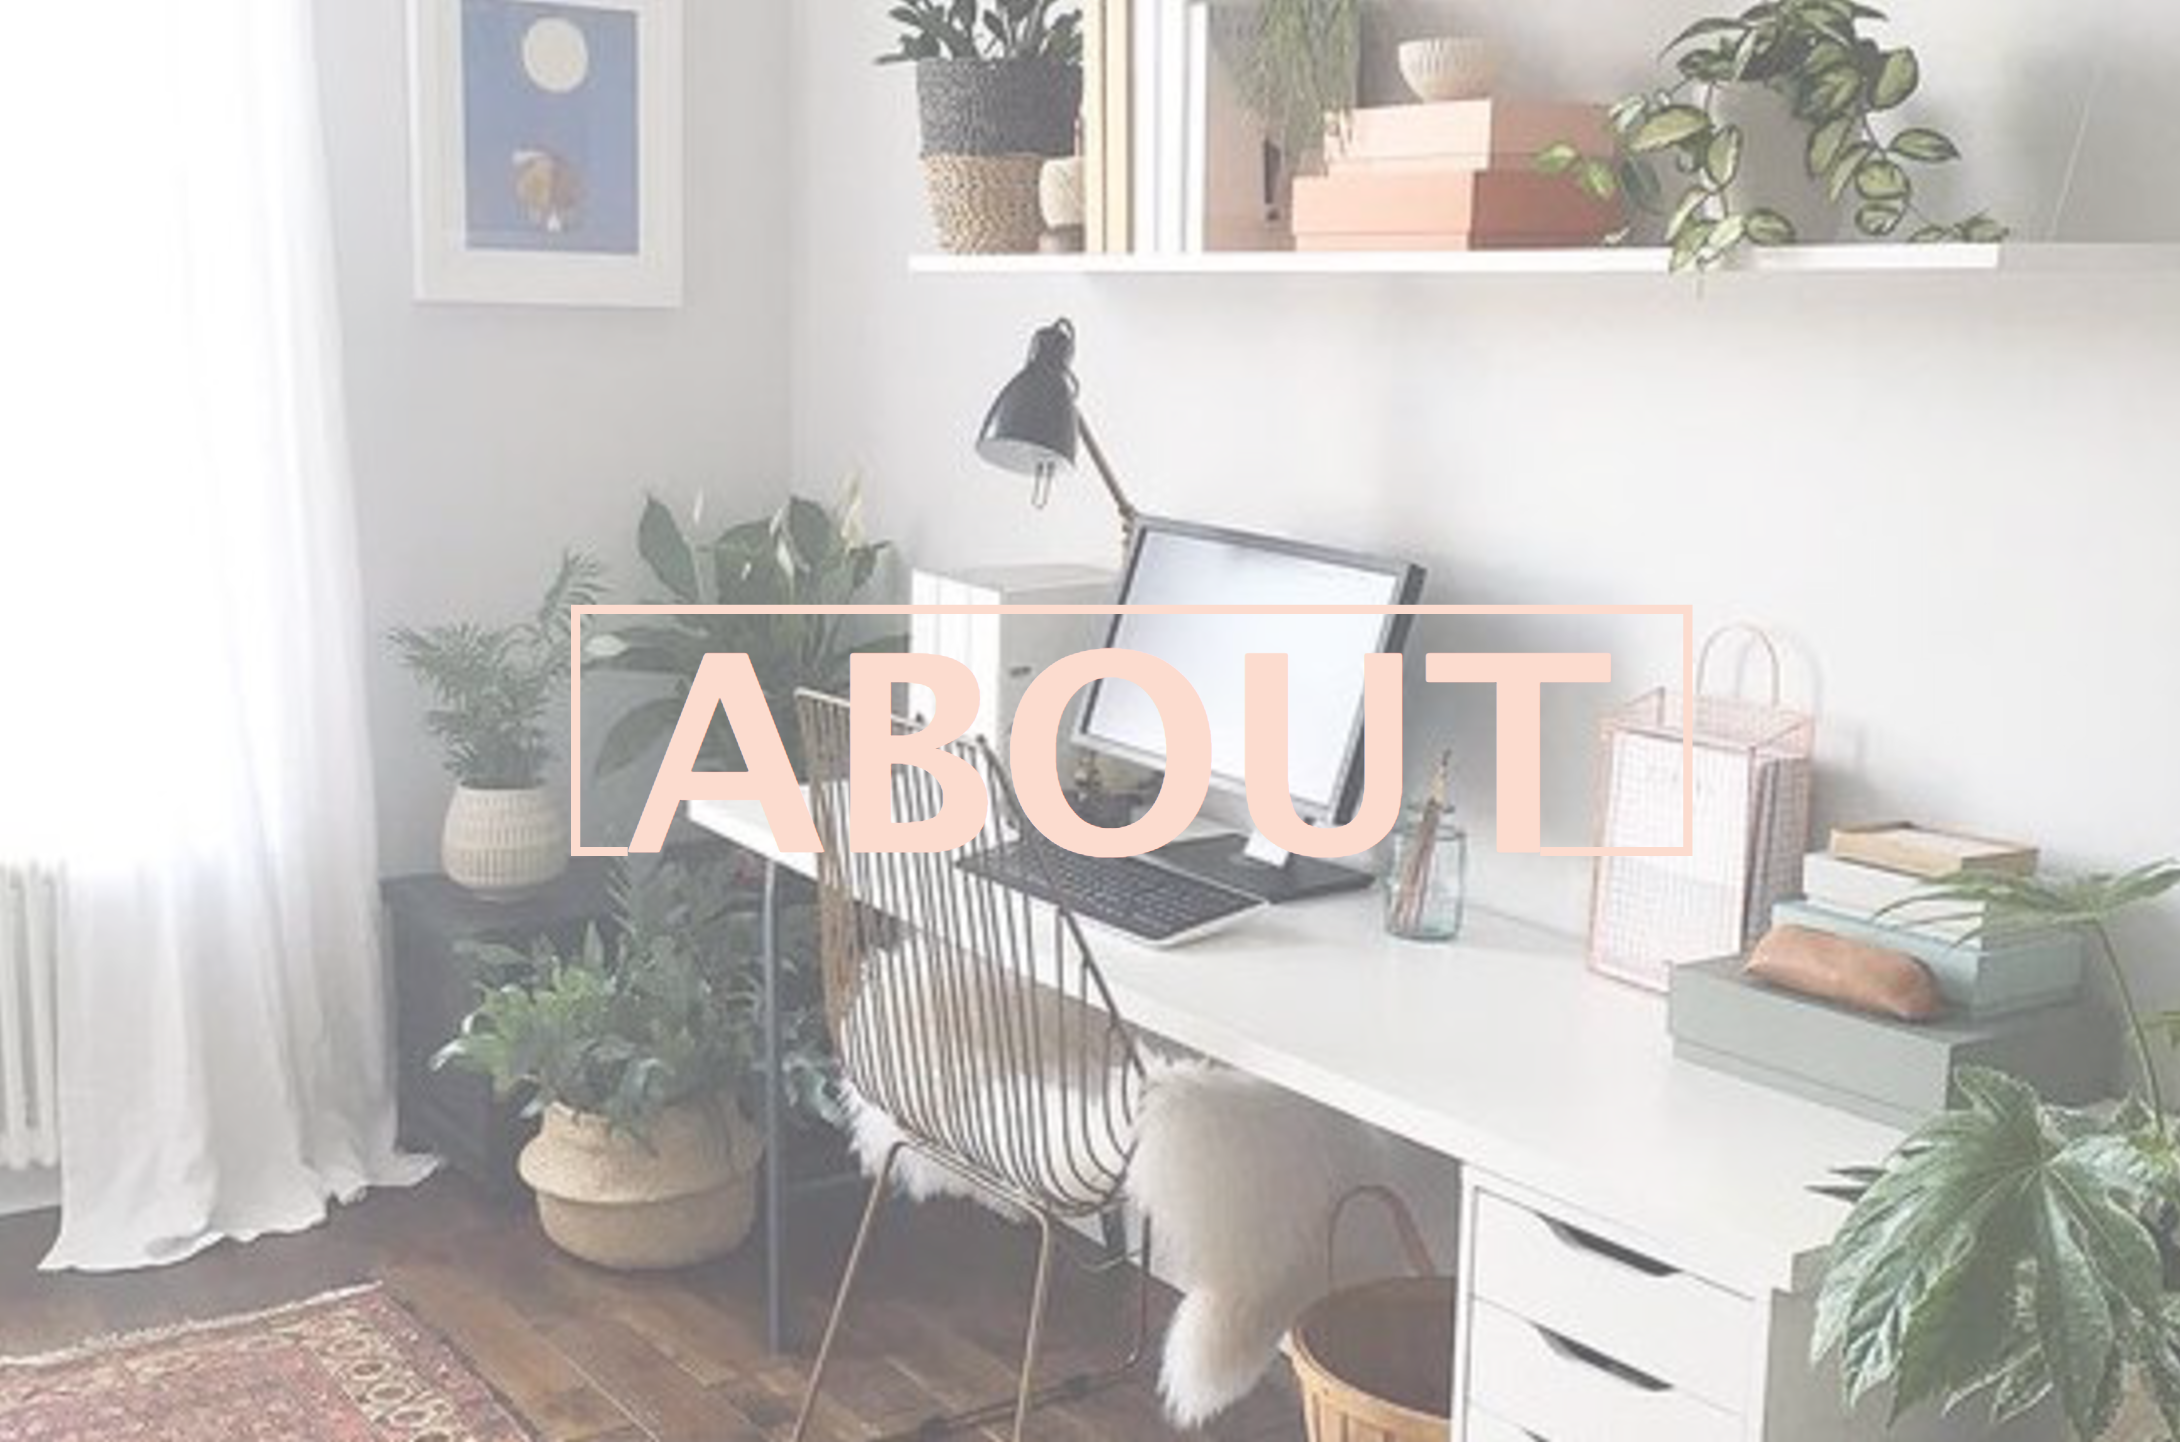
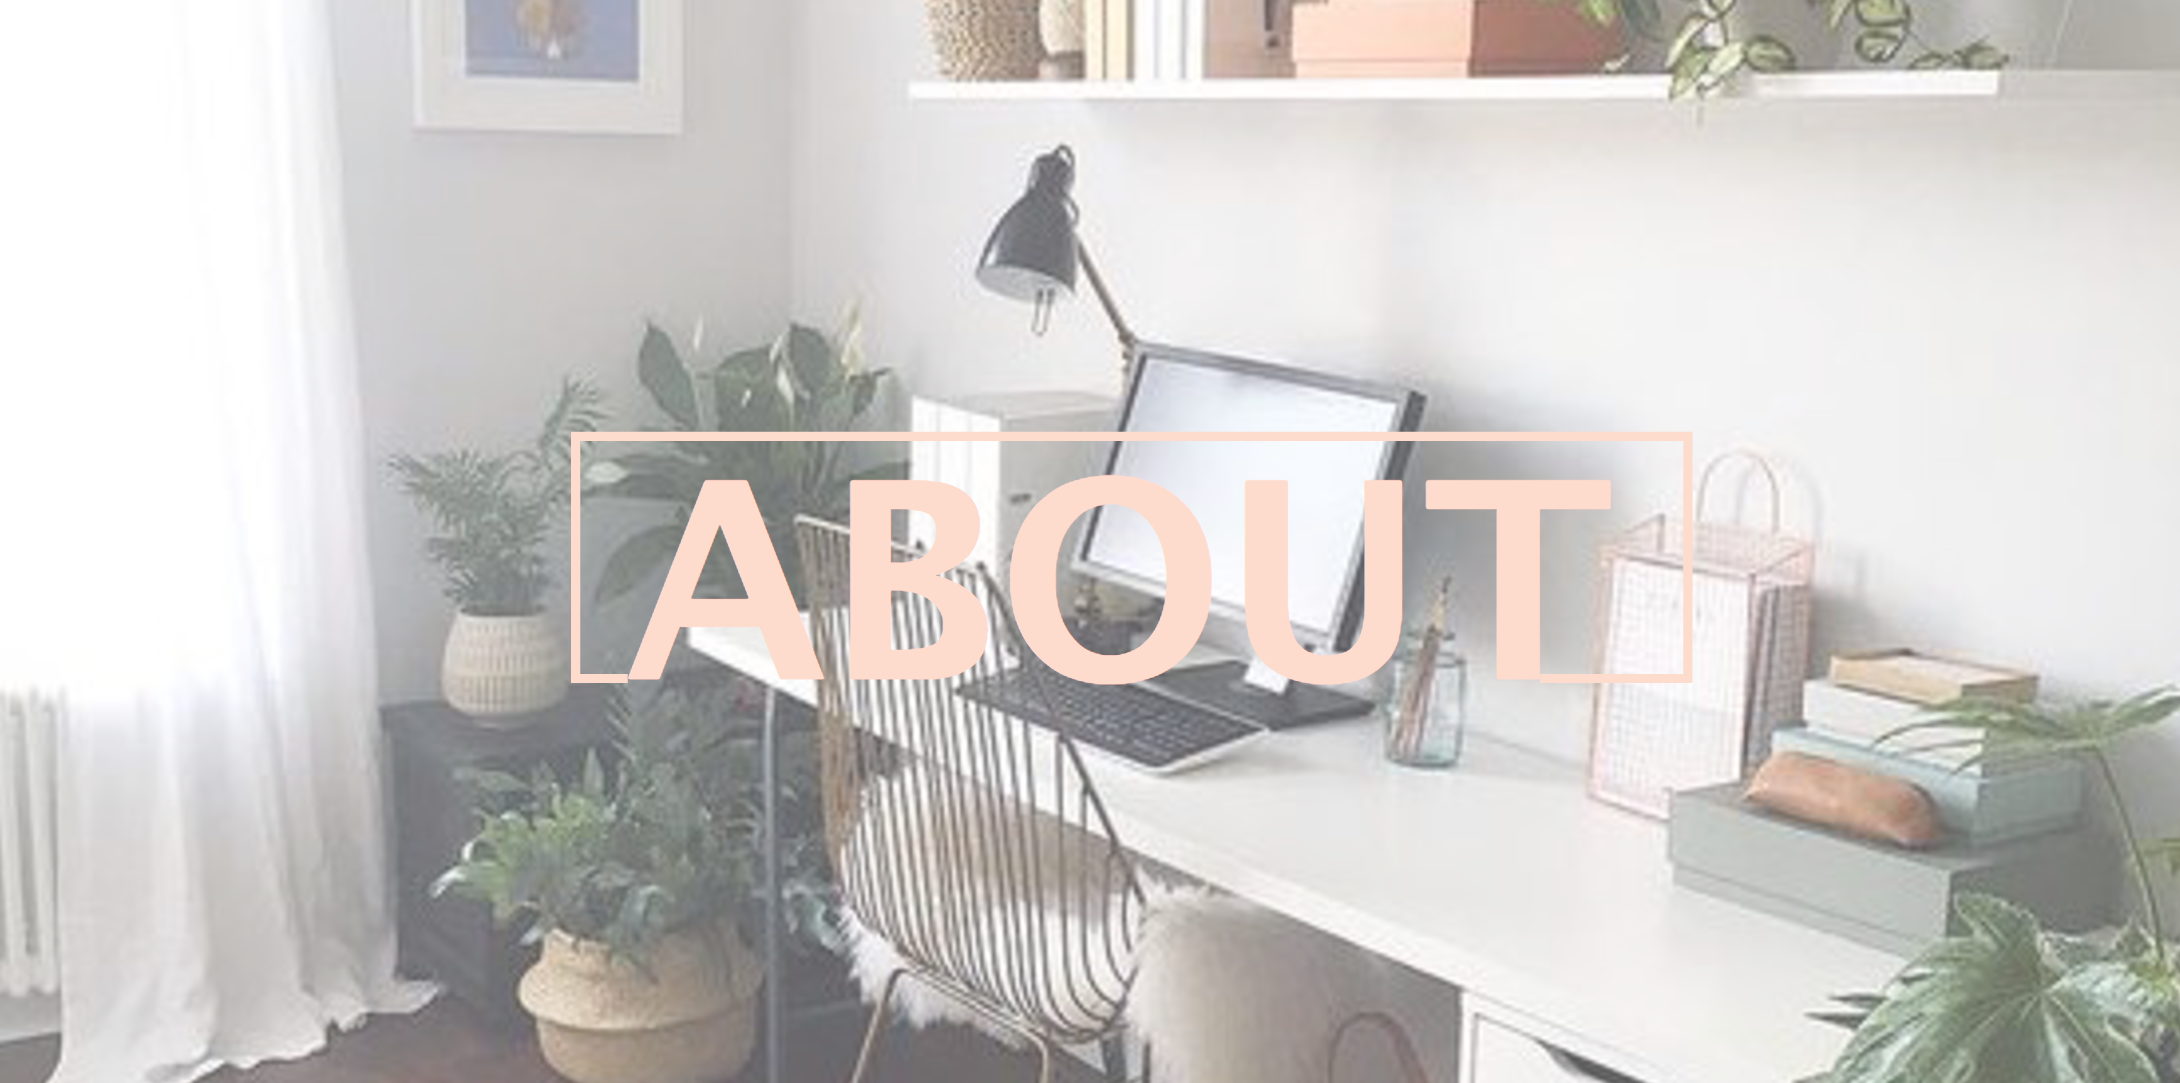
laatste proefversie

diff --git a/about.html b/about.html
@@ -35,9 +35,9 @@
 
 
 
-        <p> <img src="images/about.png" width="1250"></p>
-        <i class="fa fa-angle-double-down" aria-hidden="true"></i>
-        <h1>WIE ZIJN WE</h1>
+        <p> <img src="images/about.png" width="100%"></p>
+        <a class="start" href="#start"><i class="fa fa-angle-double-down" aria-hidden="true"></i></a>
+        <h1 id="start">WIE ZIJN WE</h1>
 
         <div id="main">
             <div class="fotowrapper">
@@ -60,15 +60,19 @@
                     <a href="marthe.html" class="button2">Marthe den Blauwen</a>
                     <a href="sander.html" class="button2">Sander Van Coppernolle</a>
                 </div>
-                <i class="fa fa-angle-double-down" aria-hidden="true"></i>
 
 
                 <h1>EEN GEVOEL?</h1>
                 <p>Een foto is geen product, maar een gevoel … het moet je raken. </p>
                 <p>Bij het fotograferen kijken we niet alleen met onze ogen, maar vooral met ons hart.</p>
-                <footer> Molenstraat 17 - 9830 Sint-Martens-Latem - Tel. 049 123 88 33
-                    <p><img src="images/socialicons.svg" width="200"> </p>
-                </footer>
+                <footer>
+        <p>
+            Molenstraat 17 - 9830 Sint-Martens-Latem - Tel. 049 123 88 33
+        </p>
+        <p>
+            <img src="images/socialicons.svg" width="200">
+        </p>
+    </footer>
                 </head>
             </div>
 </body>

diff --git a/contact.html b/contact.html
@@ -31,8 +31,8 @@
 
   <div id="main">
 
-    <p> <img src="images/contact.png" width="1250"></p>
-    <i class="fa fa-angle-double-down" aria-hidden="true"></i>
+    <p> <img src="images/contact.png" width="100%"></p>
+    <a class="start" href="#form-main"><i class="fa fa-angle-double-down" aria-hidden="true"></i></a>
     <div id="form-main">
       <div id="form-div">
         <form class="form" id="form1">
@@ -60,7 +60,6 @@
     </div>
 </div>
 
-  <i class="fa fa-angle-double-down" aria-hidden="true"></i>
   <div class="gmap">
     <iframe src="https://www.google.com/maps/embed?pb=!1m18!1m12!1m3!1d5019.975356737452!2d3.6430345330921328!3d51.01637647955745!2m3!1f0!2f0!3f0!3m2!1i1024!2i768!4f13.1!3m3!1m2!1s0x47c3726d62d57723%3A0x82a9276142509311!2sMolenstraat+17%2C+9830+Sint-Martens-Latem!5e0!3m2!1snl!2sbe!4v1495798356441"
       width="100%" height="450" frameborder="0" style="border:0" allowfullscreen></iframe>

diff --git a/diensten.html b/diensten.html
@@ -41,7 +41,7 @@
                 <div class="service-box">
                     <div class="service-icon yellow">
                         <div class="front-content">
-                            <i class="fa fa-child"></i>
+                            <i class="fa fa-child fa-5x"></i>
                             <h3>CHILD</h3>
                         </div>
                     </div>
@@ -72,7 +72,7 @@
                 <div class="service-box ">
                     <div class="service-icon red">
                         <div class="front-content">
-                            <i class="fa fa-home"></i>
+                            <i class="fa fa-home fa-5x"></i>
                             <h3>INTERIEUR</h3>
                         </div>
                     </div>

diff --git a/index.html b/index.html
@@ -35,9 +35,9 @@
     <div id="main">
 
 
-        <p><img src="images/header.png" width="1250"></p>
-        <i class="fa fa-angle-double-down" aria-hidden="true"></i>
-        <h2>PHOTOGRAPHY</h2>
+        <p><img src="images/header.png" width="100%"></p>
+        <a class="start" href="#start"><i class="fa fa-angle-double-down" aria-hidden="true"></i></a>
+        <h2 id="start">PHOTOGRAPHY</h2>
         <p>Welkom!</p>
     </div>
 

diff --git a/shoots.html b/shoots.html
@@ -35,8 +35,9 @@
 
 
 
-        <p> <img src="images/shoots.png" width="1250"></p>
-        <i class="fa fa-angle-double-down" aria-hidden="true"></i>
+        <p> <img src="images/shoots.png" width="100%"></p>
+        
+        
         <div class="">
             <a href="interieur.html" class="button2">INTERIEUR</a>
             <a href="child.html" class="button2">CHILD</a>

diff --git a/style/style.css b/style/style.css
@@ -367,6 +367,14 @@ background: #71868b; }
 .seven {
 background: #000; }
 
+a.start:link, a.start:active,a.start:visited {
+	color:#000;
+	font-size:14px;
+}
+
+a.start:link {
+	color:#333;
+}
 
 
 
